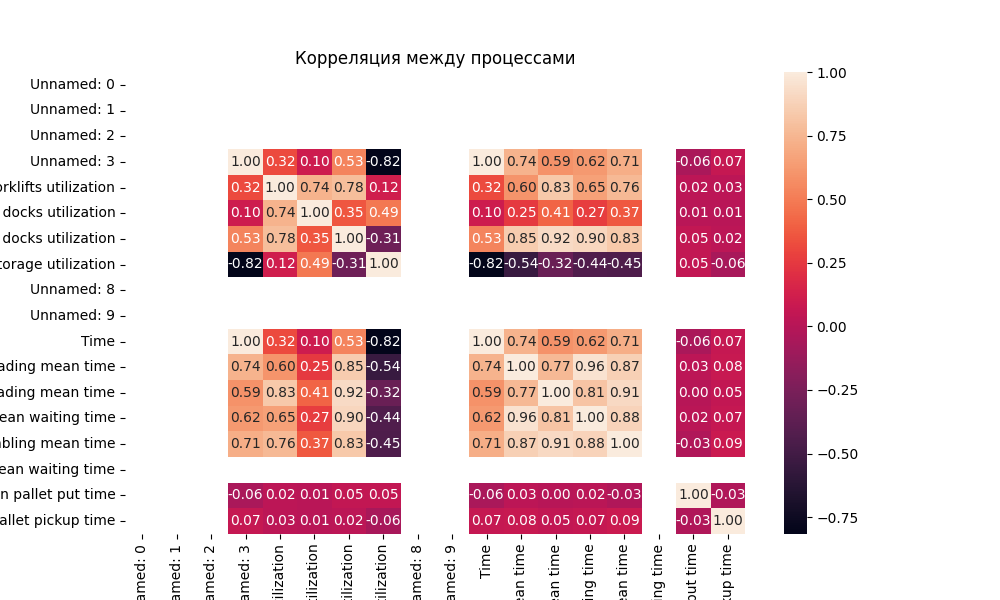
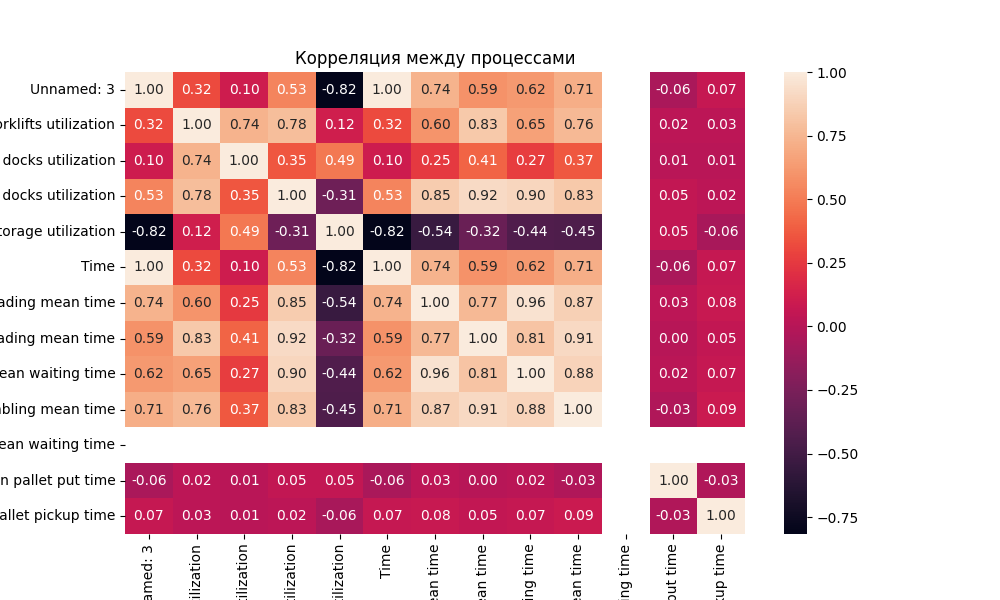
Data fixing. Try to parce data from all lists in [excel-file]

diff --git a/main.py b/main.py
@@ -4,12 +4,13 @@ import matplotlib.pyplot as plt
 import seaborn as sns
 from sklearn.linear_model import LinearRegression
 import matplotlib
+
 matplotlib.use('Agg')
+
 
 ###############################################################################################################
 # Developed by: Golubev Max, Bulatnikov Ivan, Matvei Klevcov, Matvey Klevtsov, Danila Pashkov, Daniil Khvatov #
 ###############################################################################################################
-
 
 # Анализ и предобработка данных
 def analyze_data(df):
@@ -64,12 +65,31 @@ def generate_report(df):
 
 
 if __name__ == '__main__':
-    df = pd.read_excel("/home/tango-home/PycharmProjects/FactoryAnalysis/data/data_model.xlsx")
-    print(df.columns)
+    # Список листов для обработки
+    sheets = ["Лист1", "Лист2", "Лист3", "Лист4"]
+    all_data = []
 
-    df.columns = df.columns.str.strip()
+    for sheet in sheets:
+        df = pd.read_excel("/home/tango-home/PycharmProjects/FactoryAnalysis/data/data_model.xlsx", sheet_name=sheet)
 
-    # Запуск анализа
-    analyze_data(df)
-    regression_analysis(df)
-    generate_report(df)
+        # Удаление пустых столбцов
+        df = df.dropna(axis=1, how='all')
+
+        print(f"Обрабатываемый лист: {sheet}")
+        print(df.columns)
+
+        # Убираем пробелы из названий столбцов
+        df.columns = df.columns.str.strip()
+
+        # Запуск анализа
+        analyze_data(df)
+        regression_analysis(df)
+        generate_report(df)
+
+        all_data.append(df)  # Сохраняем данные всех листов, если нужно
+
+    # Если нужен общий отчёт по всем листам
+    combined_data = pd.concat(all_data, ignore_index=True)
+    combined_report = combined_data.describe().transpose()
+    combined_report.to_csv('combined_report.csv')
+    print("Общий отчет сохранен в combined_report.csv")
